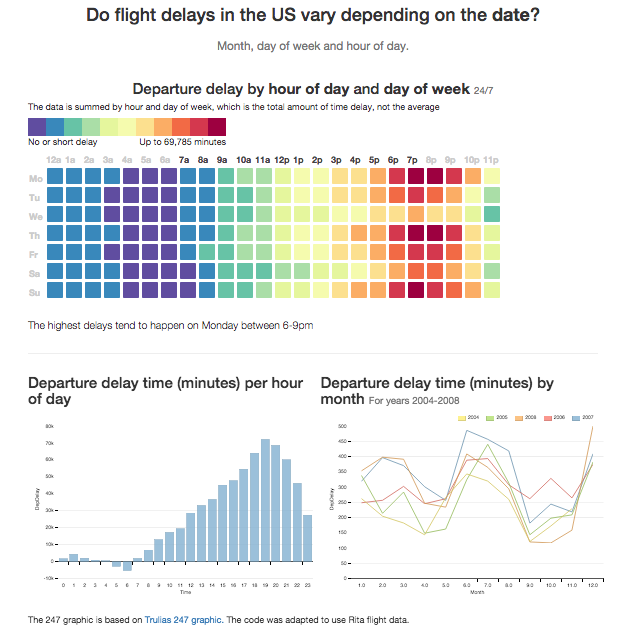
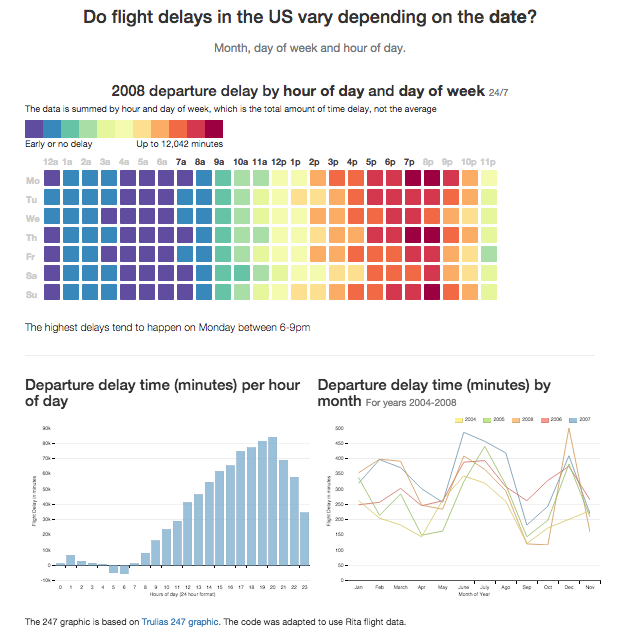
Added all of the feedback comments. Included comments to code. Improved axis labes and month labels. Added 2008 to title to clarify.

diff --git a/js/main.js b/js/main.js
@@ -8,6 +8,12 @@ Trulias 247 visualization: trulia.com/vis/tru247/
 var svgLine = dimple.newSvg("#chartContainer", 590, 400);
 var svgHist = dimple.newSvg("#hourHistogram", 590, 400);
 
+var monthMap = {1:"Jan", 2:"Feb", 3:"March", 4:"Apr",
+                5:"May", 6:"June", 7:"July", 8:"Ago",
+                9:"Sep", 10:"Oct", 11:"Nov", 12:"Dec"};
+var monthArray = ["Jan", "Feb", "March", "Apr", "May", "June", "July",
+                  "Ago", "Sep", "Oct", "Nove", "Dec"]
+
 d3.csv("data/2004-2008-by-date.csv", function(error, flights) {
 
   // Clean up the data
@@ -20,8 +26,10 @@ d3.csv("data/2004-2008-by-date.csv", function(error, flights) {
     d.Time = +d.dt.getHours();
     d.DayOfWeek = +d.dt.getDay();
     d.Year = +d.dt.getFullYear();
+    d.Month = +d.Month;
     d.DepDelay = +d.DepDelay;
     d.Distance = +d.Distance;
+    d.MonthName = monthMap[d.Month];
   });
 
   flights = flights.filter(function(d){
@@ -34,14 +42,16 @@ d3.csv("data/2004-2008-by-date.csv", function(error, flights) {
   // build the line chart
   var lineChart = new dimple.chart(svgLine, flights);
   lineChart.setBounds(60, 30, 505, 305);
-  var x = lineChart.addCategoryAxis("x", "Month");
-  x.addOrderRule("Month");
-  lineChart.addMeasureAxis("y", "DepDelay");
+  var x = lineChart.addCategoryAxis("x", "MonthName");
+  x.addOrderRule(monthArray);
+  var y = lineChart.addMeasureAxis("y", "DepDelay");
   lineChart.addLegend(60, 10, 500, 20, "right");
   var s = lineChart.addSeries("Year", dimple.plot.line);
 
-
   lineChart.draw();
+
+  x.titleShape.text("Month of Year");
+  y.titleShape.text("Flight Delay in minutes");
 
 });
 
@@ -59,7 +69,9 @@ var hours = ['12a', '1a', '2a', '3a', '4a', '5a', '6a', '7a', '8a', '9a', '10a',
     { name: 'Sunday', abbr: 'Su' }
   ];
 
-d3.csv("data/2004-DateTime.csv", function(error, flights) {
+
+// Read the CSV
+d3.csv("data/2008-DateTime.csv", function(error, flights) {
 
 
   // A little coercion, since the CSV is untyped.
@@ -126,7 +138,7 @@ d3.csv("data/2004-DateTime.csv", function(error, flights) {
   var max = d3.max(flights, function (d) { return d.DepDelay; });
   var bucket = d3.scale.quantize().domain([min, max]).range([1, 2, 3, 4, 5, 6, 7, 8, 9, 10, 11]);
 
-  debugger;
+  // debugger;
 
   // This loop assigns the CSS classes to each tile so as to assign it
   // an appropriate color based on the `bucket` scaling domain-range relation.
@@ -156,23 +168,27 @@ d3.csv("data/2004-DateTime.csv", function(error, flights) {
   //     .on('mousover', tip.show)
   //     .on('mouseout', tip.hide)
 
-  // Dimple histogram
 
+
+  // Dimple histogram
   var histogram = new dimple.chart(svgHist, flights);
   histogram.setBounds(60, 30, 510, 305)
   var x = histogram.addCategoryAxis("x", "Time");
   x.addOrderRule("Time");
-  histogram.addMeasureAxis("y", "DepDelay");
+  var y = histogram.addMeasureAxis("y", "DepDelay");
   histogram.addSeries(null, dimple.plot.bar);
   histogram.draw();
 
-
+  x.titleShape.text("Hours of day (24 hour format)");
+  y.titleShape.text("Flight Delay in minutes");
 
 });
 
 
 /* **************************
 * Took this function from the Trulia Graphic.
+* It creates the HTML for the first visualization. Builds the grid via an
+* HTML table, with each cell representing a tile of hour-day of week.
 */
 
 function createTiles() {
@@ -199,12 +215,6 @@ function createTiles() {
 	d3.select('#visualization').html(html);
 }
 
-function colorTiles() {
-
-
-
-
-}
 
 // Also copied this function from trulia, because the
 // animation looks so awesome :)

diff --git a/index.html b/index.html
@@ -31,7 +31,7 @@
     <div class="row">
       <div class="col-md-12">
 
-        <h2 class="text-center">Departure delay by <b>hour of day</b> and <b>day of week</b> <small>24/7</small></h2>
+        <h2 class="text-center">2008 departure delay by <b>hour of day</b> and <b>day of week</b> <small>24/7</small></h2>
         <p>The data is summed by hour and day of week, which is the total amount of time delay, not the average</p>
         <table class="rbow2">
           <tr>

diff --git a/process_data.py b/process_data.py
@@ -12,6 +12,11 @@ np_concat = np.vectorize(concat)
 
 
 def hours(t):
+    """
+    Helper function, takes an hour in format hhmm or hmm and
+    returns just hh.
+    """
+
     try:
         t = float(t)
     except:
@@ -23,8 +28,12 @@ def hours(t):
     else:
         return t[:2]
 
-data_files = ["2004"]
+data_files = ["2008"]
 def group_data_by(group=["Date"]):
+    """
+    Transforms the RITA original CSV files into smaller CSV files using
+    pandas group methods. It can also concatenate various years of data.
+    """
 
     grouped_list = []
 
@@ -47,6 +56,6 @@ def group_data_by(group=["Date"]):
 
 
     # Save to new CSV
-    all_data.to_csv("data/2004-{0}.csv".format(group[0]))
+    all_data.to_csv("data/2008-{0}.csv".format(group[0]))
 
-group_data_by(group=[ "DayOfWeek", "Time"])
+group_data_by(group=[ "Datetime"])

diff --git a/README.md b/README.md
@@ -2,7 +2,7 @@
 
 ## Summary
 
-*Is there a relationship between time of day, day of week and the delay time for flights?* By looking at the [Rita Flight dataset](). This visualization presents three charts showing the relationship between **flight delay times** and
+By looking at the [Rita Flight dataset](http://stat-computing.org/dataexpo/2009/the-data.html), This visualization presents three charts showing the relationship between **flight delay times** and
 periods of time (month/day of week and hour of day).
 
 [View the visualization](http://sebasibarguen.github.io/udacity-nanodegree-visualization/)
@@ -15,9 +15,9 @@ graph depicting the time of day and day of week most people go house hunting. Th
 behind the design is to use hue-colors as a way to communicate the amount of delay time,
 hotter colors representing longer delays while cooler colors shorter. The reasons for choosing
 the use of colors and a grid chart is that in just one graph we are able to group the relationship between
-three variables and make it aesthetically pleasing way. It permits us to look at relationships like,
-**what's the worst day-time of the week regarding flight time delays?**, **are time delays worst
-on early Tuesdays or late Fridays?**.
+three variables and make it aesthetically pleasing way. It permits us to look at relationships like:
+**what's the worst day-time of the week regarding flight time delays?** **Are time delays worst
+on early Tuesdays or late Fridays?**
 
 **Visual encodings for main visualization:**
 - distance x: hour of day
@@ -50,7 +50,7 @@ planning to use.*
 
 ### Version 1
 
-![Version 1](/img/visualization_v1.png)
+![Version 1](https://www.evernote.com/shard/s14/sh/65887338-ebad-49cb-b477-5796b9a4dc5f/c357ef4e705f049fc6a01125aad99a53/deep/0/visualization_v1.png)
 
 *This first implementation took some time. The biggest problems where basically formatting
 the data so that the site uses an aggregate sample because the original files are* **600mb** *or
@@ -58,7 +58,7 @@ larger. So I implemented `process_data.py` script to take care of that.*
 
 ### Version 2
 
-![Version 2](/img/visualization_v2.png)
+![Version 2](https://www.evernote.com/shard/s14/sh/716fa520-b722-469a-bcfc-aacee3dfb4cc/682335413c42244825d66a7ceb6d3318/deep/0/visualization_v2.png)
 
 *For the second version, the biggest changes based on feedback were:*
 1. Include a legend for the first graph, the message was not clear.
@@ -70,7 +70,7 @@ larger. So I implemented `process_data.py` script to take care of that.*
 1. Fixed an issue with the bar chart including NaN values
 2. Removed non-existing 2009 data from line chart
 
-![Version 3](/img/visualization_v3.png)
+![Version 3](https://www.evernote.com/shard/s14/sh/a1ae0961-8fab-43f7-9598-a65499d063e4/f85453909fb4e653029eab0ac7d907af/deep/0/visualization_v3.png)
 
 
 ### Final version
@@ -78,6 +78,7 @@ larger. So I implemented `process_data.py` script to take care of that.*
 *For the third version, the biggest changes based on feedback were:*
 1. Fixed issue with some labels in first visualization being different sizes
 2. Updated the labels in legend
+3. Updated the x and y axis labels for both lower charts.
 
 ![Version 4](/img/visualization_v4.png)
 
@@ -87,15 +88,20 @@ larger. So I implemented `process_data.py` script to take care of that.*
 After hearing the feedback and thinking about the message, I believe that these three
 graphs are the right design choices.
 
-Complementing the 24/7 grid graph with the bar chart helps clarify the message. After
-collecting the feedback, the types of charts did not change, I think they express
-the message quite well, but there were some aesthetic and content changes. Mostly fixing
-either bugs, clarifying the graphs with titles, labels and legends
+Complementing the 24/7 grid graph with the bar chart helps clarify the message. The
+feedback helped with important details like fixing bugs, clarifying the graphs with
+titles, labels and legends, and making sure that all three graphs are consistent and
+give complement each other.
 
 I believe that the three charts clearly show that:
 * The worst flight delays tend to happen on **Mondays, Thursdays and Sundays around 7pm**
 * **7pm** is the hour of the day with highest flight delays on average
 * Over the year, the highest flight delays occur during **summer** and **end of year**
+
+#### Ideas for improvement
+With more time, I would of loved to:
+- [] add a dynamic grid table, with the ability to change the data for a given year
+- [] connect the hour bar chart with the grid chart
 
 
 ## Feedback
@@ -112,9 +118,19 @@ What is the purpose of the graphs?
 I like the colors and design of the graphs, but I feel they lack context.
 Months 5-9 increase DepDelay, surely because of the increased amount of flights in summer time.
 
-> -Brother
+### Second interview
+> Visualization. **Do you understand the message?** yes, a correlation is being made between the departure delays and the time of the delay with the day of the week, the hour and also the month of the year.
+**What do you notice in the visualization?** departure delays have a tendency to happen more during the afternoon, there are months with highest delays (must be high demand of travel), also on Monday and weekends.
+**What questions do you have about the data?** it will be interesting to correlate the data with the amount of demand for travel, given that delays must happen by the amount of passengers, bags, etc... that make all the process longer. Also months that have a high delay on flights are high demand months given holidays, so is it more that the airlines are overselling their flights that is causing the delays, or given the high amount of air traffic delay is prone to happen.
+**What relationships do you notice?** high amount of delays happen on late hours of the day and holiday months.
+**What do you think is the main takeaway from this visualization?** departure delays are mainly on late hours of the day and specially on Monday. Also there is a relationship year by year on the months where delays are higher so this data could help the passenger to plan ahead what hour of the day is best to travel and also to have in mind in which month delays are to be expected. Additionally is powerful information for airports to better organize air traffic and most of all for the airlines to plan ahead their flight schedule and if no major change can be made to preempt the delays they have to budget money to pay fees to passengers when delays affect their connecting flights or plans.
+**Is there something you don’t understand in the graphic?** I got a little confused with the second graphic, given that the x-axis only says time and is being based in a 24 hour clock vs the previews chart that is based in a 12 hour clock.
 
-
+### Third interview
+> The description for the colors for delay bar for the graph Departure delay by hour of day and day of week could improve. I would put on the left, "No delay" and on the right "Delayed 12,042 minutes"
+I like the design of each graph. The content now gives a great sight into what each graph is about.
+One change that might be good is to have an abbreviation of each month (jan, feb, etc...) instead of numbers for the graph Departure delay time (minutes) by month
+Overall, I see improvement with each version.
 
 ## Resources
 
